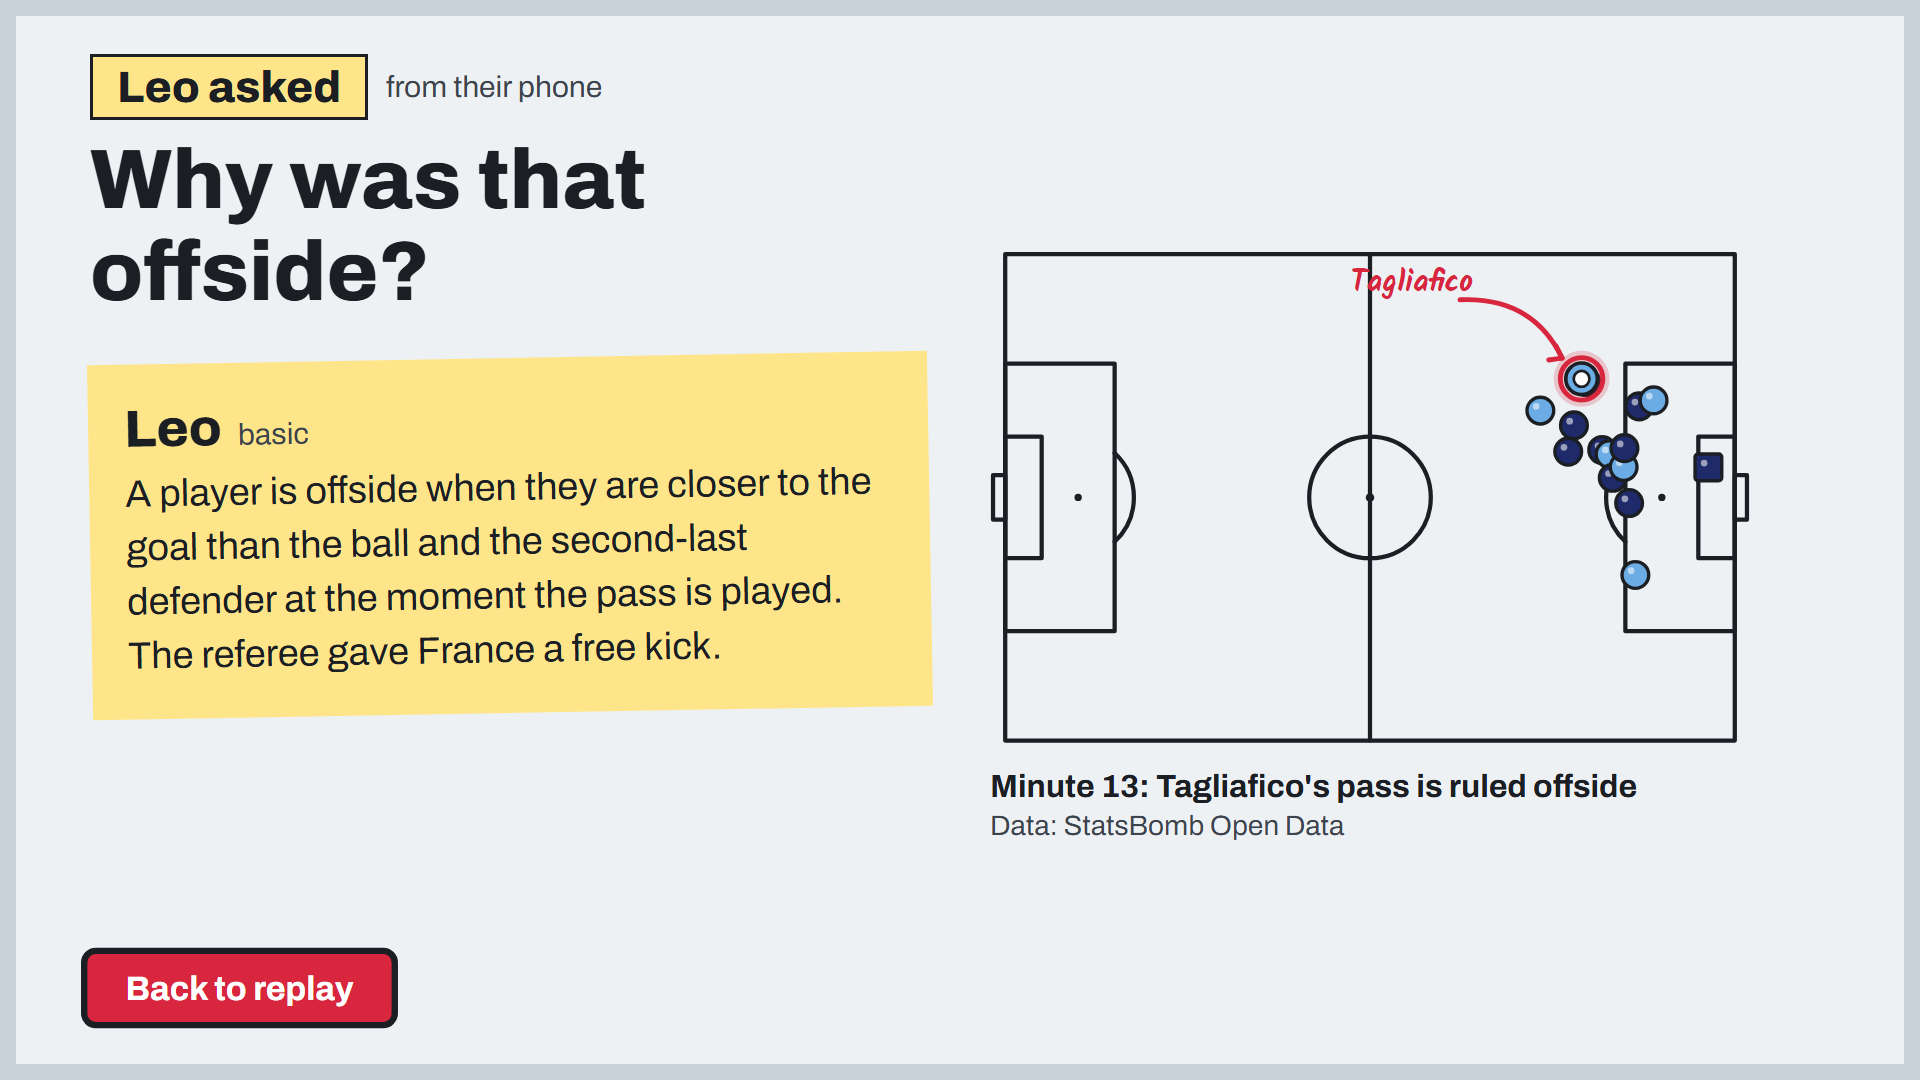
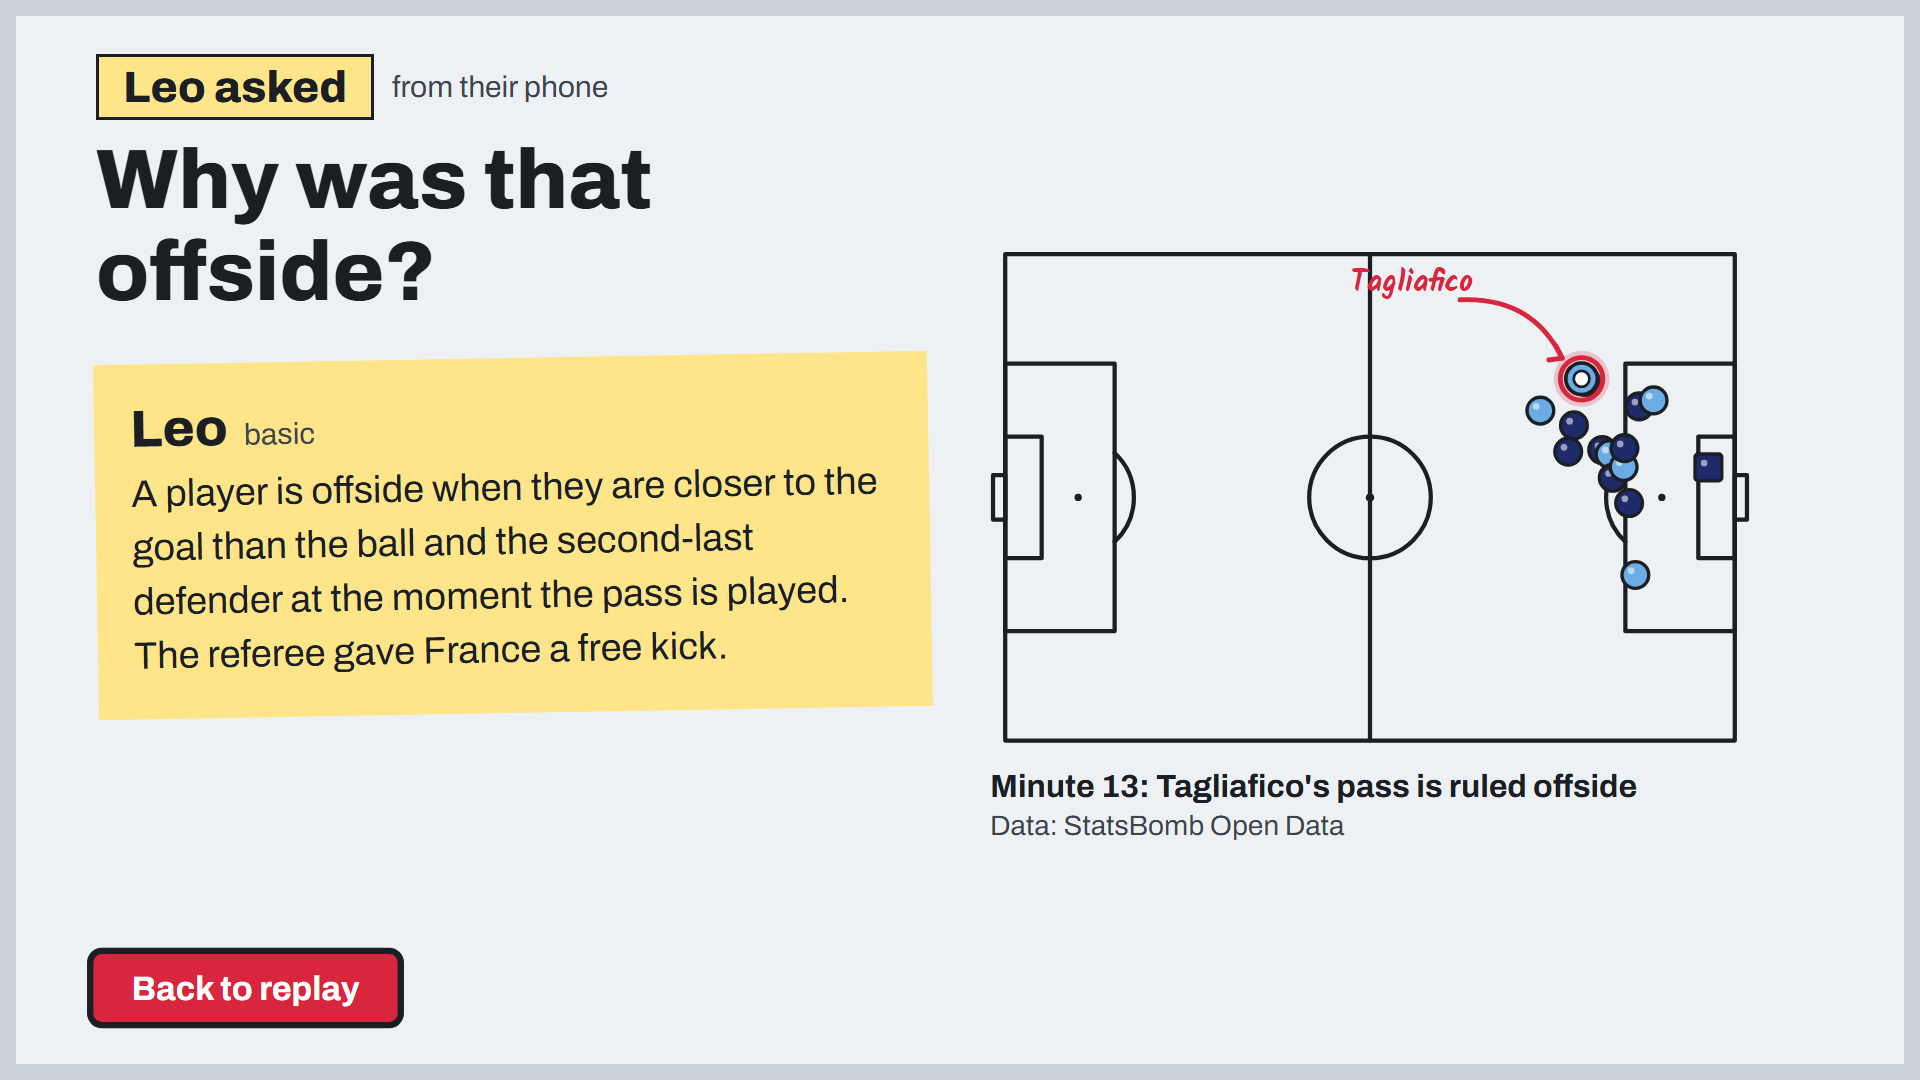
feat: visual checks and gate-2 contact sheet

diff --git a/design/contact-sheet.html b/design/contact-sheet.html
@@ -1,0 +1,38 @@
+<!doctype html>
+<html lang="en"><head><meta charset="utf-8"><meta name="viewport" content="width=device-width,initial-scale=1">
+<title>Courtside visual directions</title>
+<style>
+:root{--bg:#f6f7f9;--text:#15191e;--dim:#4a525b;--card:#fff;--line:#d5dae0;--link:#0b5cad}
+@media (prefers-color-scheme:dark){:root{--bg:#14171b;--text:#eef1f4;--dim:#b3bcc6;--card:#1e2227;--line:#363c44;--link:#8ab9ee}}
+*{box-sizing:border-box}
+body{margin:0;background:var(--bg);color:var(--text);font:18px/1.5 system-ui,-apple-system,"Segoe UI",Roboto,sans-serif}
+main{max-width:1280px;margin:0 auto;padding:24px 16px 64px}
+h1{font-size:2rem;margin:0 0 8px}
+h2{font-size:1.6rem;margin:0 0 4px}
+h3{font-size:1rem;margin:0 0 8px;font-weight:600}
+p{margin:0 0 12px;max-width:68ch}
+.dim{color:var(--dim)}
+nav{display:flex;flex-wrap:wrap;gap:8px;margin:16px 0 8px}
+nav a{color:var(--link);padding:10px 16px;border:1px solid var(--line);border-radius:8px;text-decoration:none;background:var(--card);font-weight:600}
+section{margin-top:48px;padding-top:24px;border-top:1px solid var(--line)}
+.tv{display:grid;grid-template-columns:repeat(2,1fr);gap:20px;margin:20px 0 28px}
+figure{margin:0}
+figure img{display:block;width:100%;height:auto;border:1px solid var(--line);border-radius:6px;background:var(--card)}
+figcaption{font-size:.95rem;color:var(--dim);margin-top:6px}
+.phones{display:flex;gap:16px;overflow-x:auto;padding-bottom:12px;align-items:flex-start}
+.phones figure{flex:0 0 200px}
+@media (max-width:760px){.tv{grid-template-columns:1fr}}
+</style></head><body><main>
+<h1>Courtside: three visual directions</h1>
+<p>Each direction shows the four TV screens (1920 by 1080) and the phone page (390 by 844). They all carry the same content and the same behaviour; only the look and the layout change. Tap an image to see it at full size.</p>
+<nav><a href="#a">A. Floodlight</a><a href="#b">B. Tactics board</a><a href="#c">C. Terrace scarf</a></nav>
+<section id="a"><h2>A. Floodlight</h2><p>A night match seen from the stands: a striped green pitch with chalk lines, and the explanations sit on a board to the right like a substitutes board.</p>
+<div class="tv"><figure><a href="sheet/tv-watching-a.jpg"><img loading="lazy" src="sheet/tv-watching-a.jpg" alt="A. Floodlight, TV: Who's watching?"></a><figcaption>Who's watching?</figcaption></figure><figure><a href="sheet/tv-replay-a.jpg"><img loading="lazy" src="sheet/tv-replay-a.jpg" alt="A. Floodlight, TV: Replay with the explanation"></a><figcaption>Replay with the explanation</figcaption></figure><figure><a href="sheet/tv-answer-a.jpg"><img loading="lazy" src="sheet/tv-answer-a.jpg" alt="A. Floodlight, TV: A question answered on the TV"></a><figcaption>A question answered on the TV</figcaption></figure><figure><a href="sheet/tv-levelup-a.jpg"><img loading="lazy" src="sheet/tv-levelup-a.jpg" alt="A. Floodlight, TV: Leo moves up a level"></a><figcaption>Leo moves up a level</figcaption></figure></div>
+<h3>On the phone</h3><div class="phones"><figure><a href="sheet/phone-join-a.jpg"><img loading="lazy" src="sheet/phone-join-a.jpg" alt="A. Floodlight, phone: Join with the code"></a><figcaption>Join with the code</figcaption></figure><figure><a href="sheet/phone-pick-a.jpg"><img loading="lazy" src="sheet/phone-pick-a.jpg" alt="A. Floodlight, phone: Pick yourself"></a><figcaption>Pick yourself</figcaption></figure><figure><a href="sheet/phone-ask-a.jpg"><img loading="lazy" src="sheet/phone-ask-a.jpg" alt="A. Floodlight, phone: Ask a question"></a><figcaption>Ask a question</figcaption></figure><figure><a href="sheet/phone-preperm-a.jpg"><img loading="lazy" src="sheet/phone-preperm-a.jpg" alt="A. Floodlight, phone: Before the mic prompt"></a><figcaption>Before the mic prompt</figcaption></figure><figure><a href="sheet/phone-blocked-safari-a.jpg"><img loading="lazy" src="sheet/phone-blocked-safari-a.jpg" alt="A. Floodlight, phone: Mic blocked, Safari"></a><figcaption>Mic blocked, Safari</figcaption></figure><figure><a href="sheet/phone-blocked-chrome-a.jpg"><img loading="lazy" src="sheet/phone-blocked-chrome-a.jpg" alt="A. Floodlight, phone: Mic blocked, Chrome"></a><figcaption>Mic blocked, Chrome</figcaption></figure><figure><a href="sheet/phone-answer-a.jpg"><img loading="lazy" src="sheet/phone-answer-a.jpg" alt="A. Floodlight, phone: The answer"></a><figcaption>The answer</figcaption></figure></div></section>
+<section id="b"><h2>B. Tactics board</h2><p>The coach's whiteboard at half-time: marker lines on a cool white board, with each viewer's explanation on its own coloured sticky note underneath.</p>
+<div class="tv"><figure><a href="sheet/tv-watching-b.jpg"><img loading="lazy" src="sheet/tv-watching-b.jpg" alt="B. Tactics board, TV: Who's watching?"></a><figcaption>Who's watching?</figcaption></figure><figure><a href="sheet/tv-replay-b.jpg"><img loading="lazy" src="sheet/tv-replay-b.jpg" alt="B. Tactics board, TV: Replay with the explanation"></a><figcaption>Replay with the explanation</figcaption></figure><figure><a href="sheet/tv-answer-b.jpg"><img loading="lazy" src="sheet/tv-answer-b.jpg" alt="B. Tactics board, TV: A question answered on the TV"></a><figcaption>A question answered on the TV</figcaption></figure><figure><a href="sheet/tv-levelup-b.jpg"><img loading="lazy" src="sheet/tv-levelup-b.jpg" alt="B. Tactics board, TV: Leo moves up a level"></a><figcaption>Leo moves up a level</figcaption></figure></div>
+<h3>On the phone</h3><div class="phones"><figure><a href="sheet/phone-join-b.jpg"><img loading="lazy" src="sheet/phone-join-b.jpg" alt="B. Tactics board, phone: Join with the code"></a><figcaption>Join with the code</figcaption></figure><figure><a href="sheet/phone-pick-b.jpg"><img loading="lazy" src="sheet/phone-pick-b.jpg" alt="B. Tactics board, phone: Pick yourself"></a><figcaption>Pick yourself</figcaption></figure><figure><a href="sheet/phone-ask-b.jpg"><img loading="lazy" src="sheet/phone-ask-b.jpg" alt="B. Tactics board, phone: Ask a question"></a><figcaption>Ask a question</figcaption></figure><figure><a href="sheet/phone-preperm-b.jpg"><img loading="lazy" src="sheet/phone-preperm-b.jpg" alt="B. Tactics board, phone: Before the mic prompt"></a><figcaption>Before the mic prompt</figcaption></figure><figure><a href="sheet/phone-blocked-safari-b.jpg"><img loading="lazy" src="sheet/phone-blocked-safari-b.jpg" alt="B. Tactics board, phone: Mic blocked, Safari"></a><figcaption>Mic blocked, Safari</figcaption></figure><figure><a href="sheet/phone-blocked-chrome-b.jpg"><img loading="lazy" src="sheet/phone-blocked-chrome-b.jpg" alt="B. Tactics board, phone: Mic blocked, Chrome"></a><figcaption>Mic blocked, Chrome</figcaption></figure><figure><a href="sheet/phone-answer-b.jpg"><img loading="lazy" src="sheet/phone-answer-b.jpg" alt="B. Tactics board, phone: The answer"></a><figcaption>The answer</figcaption></figure></div></section>
+<section id="c"><h2>C. Terrace scarf</h2><p>The family on the terrace: every viewer gets a scarf colour that follows them through the whole app, and the pitch runs full width across the middle.</p>
+<div class="tv"><figure><a href="sheet/tv-watching-c.jpg"><img loading="lazy" src="sheet/tv-watching-c.jpg" alt="C. Terrace scarf, TV: Who's watching?"></a><figcaption>Who's watching?</figcaption></figure><figure><a href="sheet/tv-replay-c.jpg"><img loading="lazy" src="sheet/tv-replay-c.jpg" alt="C. Terrace scarf, TV: Replay with the explanation"></a><figcaption>Replay with the explanation</figcaption></figure><figure><a href="sheet/tv-answer-c.jpg"><img loading="lazy" src="sheet/tv-answer-c.jpg" alt="C. Terrace scarf, TV: A question answered on the TV"></a><figcaption>A question answered on the TV</figcaption></figure><figure><a href="sheet/tv-levelup-c.jpg"><img loading="lazy" src="sheet/tv-levelup-c.jpg" alt="C. Terrace scarf, TV: Leo moves up a level"></a><figcaption>Leo moves up a level</figcaption></figure></div>
+<h3>On the phone</h3><div class="phones"><figure><a href="sheet/phone-join-c.jpg"><img loading="lazy" src="sheet/phone-join-c.jpg" alt="C. Terrace scarf, phone: Join with the code"></a><figcaption>Join with the code</figcaption></figure><figure><a href="sheet/phone-pick-c.jpg"><img loading="lazy" src="sheet/phone-pick-c.jpg" alt="C. Terrace scarf, phone: Pick yourself"></a><figcaption>Pick yourself</figcaption></figure><figure><a href="sheet/phone-ask-c.jpg"><img loading="lazy" src="sheet/phone-ask-c.jpg" alt="C. Terrace scarf, phone: Ask a question"></a><figcaption>Ask a question</figcaption></figure><figure><a href="sheet/phone-preperm-c.jpg"><img loading="lazy" src="sheet/phone-preperm-c.jpg" alt="C. Terrace scarf, phone: Before the mic prompt"></a><figcaption>Before the mic prompt</figcaption></figure><figure><a href="sheet/phone-blocked-safari-c.jpg"><img loading="lazy" src="sheet/phone-blocked-safari-c.jpg" alt="C. Terrace scarf, phone: Mic blocked, Safari"></a><figcaption>Mic blocked, Safari</figcaption></figure><figure><a href="sheet/phone-blocked-chrome-c.jpg"><img loading="lazy" src="sheet/phone-blocked-chrome-c.jpg" alt="C. Terrace scarf, phone: Mic blocked, Chrome"></a><figcaption>Mic blocked, Chrome</figcaption></figure><figure><a href="sheet/phone-answer-c.jpg"><img loading="lazy" src="sheet/phone-answer-c.jpg" alt="C. Terrace scarf, phone: The answer"></a><figcaption>The answer</figcaption></figure></div></section>
+</main></body></html>

diff --git a/tv/packages/shared/src/components/Timeline.tsx b/tv/packages/shared/src/components/Timeline.tsx
@@ -32,7 +32,9 @@ export default function Timeline({ moments, selectedId, initialId, onSelect, the
             const selected = m.id === selectedId;
             const goal = m.outcome === 'Goal';
             const tick = (
-              <SpatialNavigationFocusableView onFocus={() => onSelect(m.id)} onSelect={() => onSelect(m.id)}>
+              <SpatialNavigationFocusableView
+                viewProps={{ accessibilityLabel: `Minute ${m.minute}${goal ? ", goal" : ""}` }}
+                onFocus={() => onSelect(m.id)} onSelect={() => onSelect(m.id)}>
                 {({ isFocused }) => {
                   const hot = selected || isFocused;
                   let body;

diff --git a/web/phone.css b/web/phone.css
@@ -91,7 +91,7 @@ body[data-dir='b'] .btn.primary { border-color: var(--edge); box-shadow: 3px 3px
 body[data-dir='b'] .btn.secondary { background: #fff; }
 .btn.secondary { margin-top: 12px; }
 .btn.link { width: auto; min-height: 48px; padding: 8px 12px; border: 0; color: var(--accent); text-decoration: underline; text-underline-offset: 4px; background: none; font-size: 1rem; }
-body[data-dir='b'] .btn.link { color: var(--accent); border: 0; }
+body[data-dir='b'] .btn.link { color: #B91C32; border: 0; }
 #s-join .btn, #s-preperm .btn, #s-blocked .btn { margin-top: 0; }
 #s-preperm .btn.secondary, #s-blocked .btn.secondary { margin-top: 12px; }
 

diff --git a/tv/packages/shared/src/components/Toast.tsx b/tv/packages/shared/src/components/Toast.tsx
@@ -53,8 +53,8 @@ export default function Toast({ text, theme, onUndo }: Props) {
 
 /** Where the toast sits so it covers the timeline, the least important part, in each layout. */
 const ANCHOR = {
-  board: { left: px(90), bottom: px(40) },
-  whiteboard: { left: px(90), top: px(585) },
+  board: { left: px(96), bottom: px(40) },
+  whiteboard: { left: px(96), top: px(585) },
   band: { left: px(640), top: px(40) },
 } as const;
 

diff --git a/tv/packages/shared/src/screens/Watching.tsx b/tv/packages/shared/src/screens/Watching.tsx
@@ -164,7 +164,7 @@ function ProfileCard({
               fontFamily: theme.font.bodyBold,
               fontSize: px(30),
               marginTop: px(10),
-              color: picked ? (l === 'whiteboard' ? c.accent : c.accent) : 'transparent',
+              color: picked ? (l === 'whiteboard' ? c.text : c.accent) : 'transparent',
             }}
           >
             Watching

diff --git a/tv/packages/shared/src/screens/Replay.tsx b/tv/packages/shared/src/screens/Replay.tsx
@@ -264,7 +264,7 @@ function WhiteboardLayout({ theme, moment, mine, theirs, timeline, buttons, attr
         {timeline(px(1260))}
         {buttons}
       </View>
-      <View style={{ marginTop: px(34) }}>{cards}</View>
+      <View style={{ marginTop: px(18) }}>{cards}</View>
       {why && <View style={{ marginTop: px(14) }}>{why}</View>}
     </View>
   );

diff --git a/tv/packages/shared/src/theme/safeZones.ts b/tv/packages/shared/src/theme/safeZones.ts
@@ -5,7 +5,7 @@
 export const safeZones = {
   // Title-safe margins (5% of screen dimension)
   titleSafe: {
-    horizontal: 90,  // ~5% of 1920px
+    horizontal: 96,  // 5% of 1920px
     vertical: 54,    // ~5% of 1080px
   },
   
